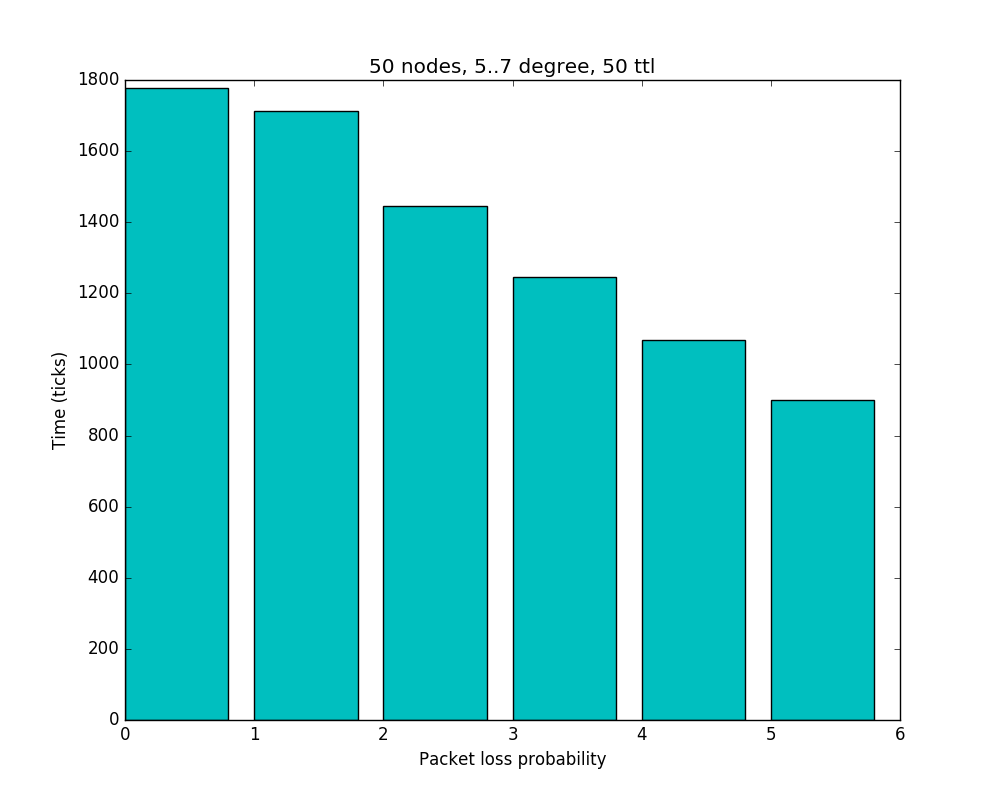
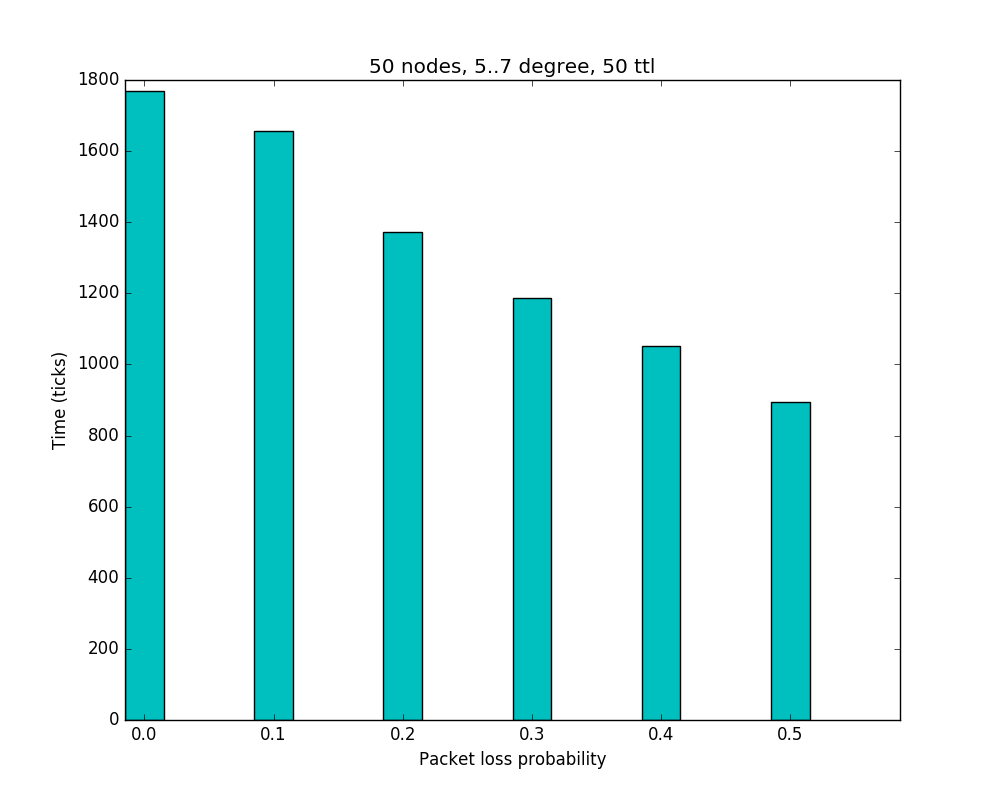
fixed xticks

diff --git a/plot.py b/plot.py
@@ -41,9 +41,12 @@ def main():
 	print vals
 	xticks = np.arange(len(vals))
 
+	width = 0.3
+
 	plt.figure(figsize=(10, 8))
-	plt.bar(xticks, vals, color='c')
+	plt.bar(xticks, vals, color='c', width=0.3)
 	plt.title("{} nodes, {}..{} degree, {} ttl".format(N, min_d, max_d, ttl))
+	plt.xticks(xticks+width/2, prob)
 	plt.xlabel("Packet loss probability")
 	plt.ylabel("Time (ticks)")
 
